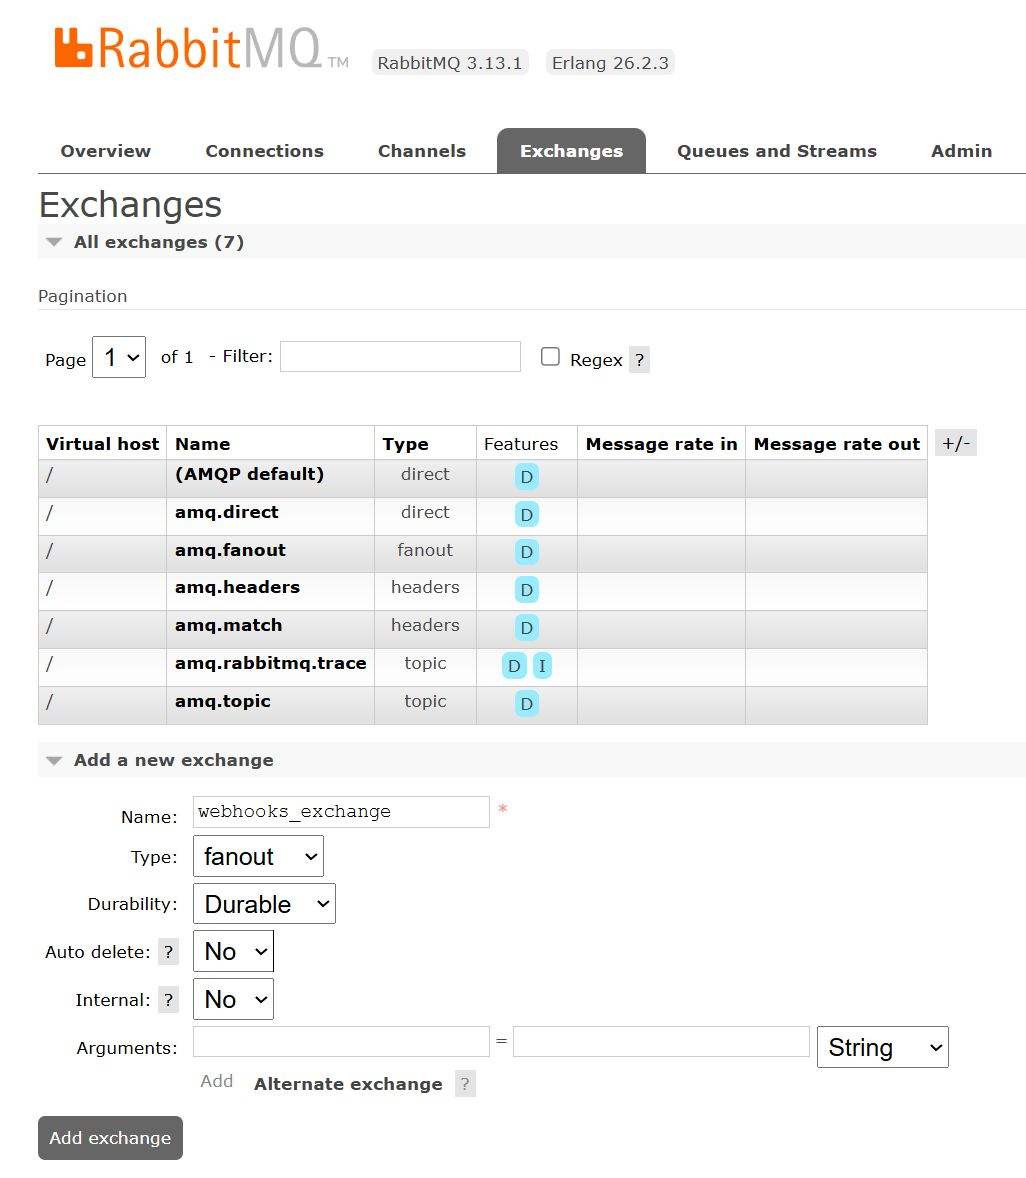
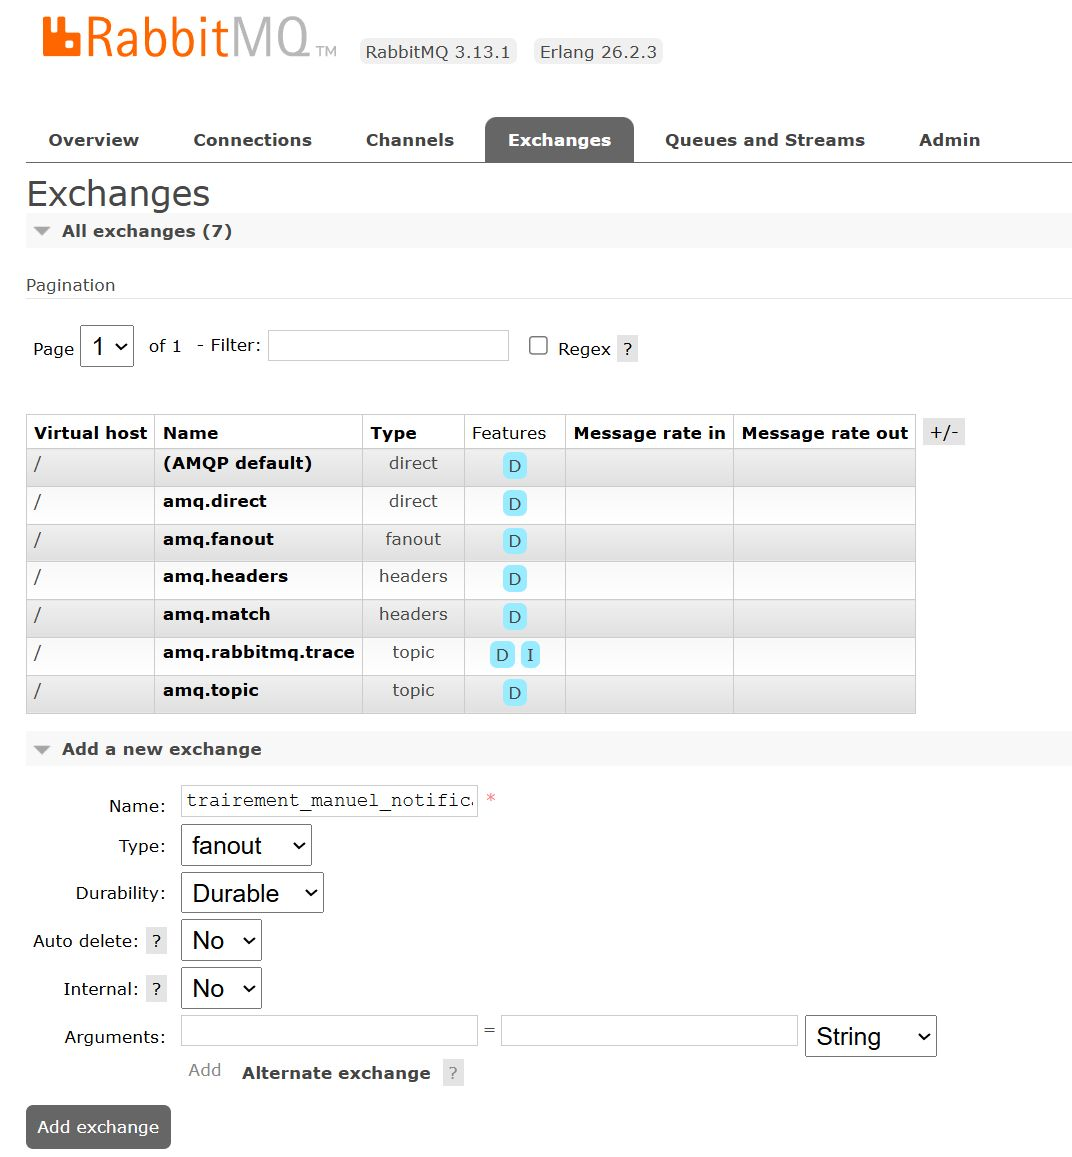
Doc: Mise à jour de la partie notification

diff --git a/mkDocs/docs/ma-moulinette/developpement/rabbitMQ.md b/mkDocs/docs/ma-moulinette/developpement/rabbitMQ.md
@@ -186,7 +186,8 @@ Trois files d'attente sont utilisées.
 
 - [x] **traitement_manuel_queue** est une file d'attente créée automatiquement ;
 - [x] **traitement_automatique_queue** est une file d'attente créée automatiquement ;
-- [ ] **webhooks_queue** est une file d'attente à créer manuellement depuis l'interface graphique ;
+- [x] **traitement_manuel_notifications_queue** est la file de notification ;
+- [ ] **traitement_manuel_notification_queue** est la file de notification ;
 
 ![rabbitMQ](/assets/images/rabbitmq/rabitMQ-002.jpg)
 
@@ -231,27 +232,46 @@ Les droits possibles sont :
 
 `rabbitmqctl.bat clear_permissions -p <vhost> <utilisateur>`
 
-> Ajouter la file d'attente webhooks de type fanout
+> Ajouter les files d'attente pour les notifications
+
+Deux files d'attente doivent être ajoutées :
+- [x] traitement_manuel_notifications_queue ;
+- [x] traitement_automatique_notifications_queue 
 
 ```bash
-rabbitmqadmin declare queue name=webhooks durable=true auto_delete=false arguments='{"x-dead-letter-exchange":"","x-dead-letter-routing-key":"","x-message-ttl":0,"x-expires":0,"x-max-length":0,"x-max-length-bytes":0,"x-overflow":"reject-publish"}' --vhost=/
+rabbitmqadmin declare queue name=traitement_manuel_notifications_queue durable=true auto_delete=false arguments='{"x-dead-letter-exchange":"","x-dead-letter-routing-key":"","x-message-ttl":0,"x-expires":0,"x-max-length":0,"x-max-length-bytes":0,"x-overflow":"reject-publish"}' --vhost=/
 ```
 
-Cette commande utilise l'outil **rabbitmqadmin** pour déclarer une file d'attente nommée "webhooks" avec les options suivantes :
+```bash
+rabbitmqadmin declare queue name=traitement_automatique_notifications_queue durable=true auto_delete=false arguments='{"x-dead-letter-exchange":"","x-dead-letter-routing-key":"","x-message-ttl":0,"x-expires":0,"x-max-length":0,"x-max-length-bytes":0,"x-overflow":"reject-publish"}' --vhost=/
+```
 
-- durable=true : la file d'attente est persistante et survit à un redémarrage du serveur RabbitMQ.
-- auto_delete=false : la file d'attente n'est pas supprimée automatiquement lorsque tous les consommateurs se déconnectent.
-- arguments : cette option permet de définir des arguments supplémentaires pour la file d'attente.
-- --vhost=/ : cette option permet de spécifier le vhost sur lequel la file d'attente doit être créée. Dans cet exemple, la file d'attente est créée sur le vhost par défaut de RabbitMQ (/).
+Cette commande utilise l'outil **rabbitmqadmin** pour déclarer une file d'attente nommée "traitement_manuel_notifications_queue" avec les options suivantes :
+
+- **durable**=true : la file d'attente est persistante et survit à un redémarrage du serveur RabbitMQ.
+- **auto_delete**=false : la file d'attente n'est pas supprimée automatiquement lorsque tous les consommateurs se déconnectent.
+- **arguments** : cette option permet de définir des arguments supplémentaires pour la file d'attente.
+- **--vhost**=/ : cette option permet de spécifier le vhost sur lequel la file d'attente doit être créée. Dans cet exemple, la file d'attente est créée sur le vhost par défaut de RabbitMQ (/).
 
 Une fois la file d'attente créée, vous pouvez la lier à un échange de type "fanout" pour recevoir tous les messages envoyés par les webhooks. Pour cela, vous pouvez utiliser la commande suivante :
 
 ```bash
-rabbitmqadmin declare exchange name=webhooks type=fanout --vhost=/
-rabbitmqadmin declare binding source=webhooks destination_type=queue destination=webhooks routing_key= --vhost=/
+rabbitmqadmin declare exchange name=traitement_manuel_notifications_exchange type=fanout --vhost=/
+rabbitmqadmin declare binding source=traitement_manuel_notifications_exchange destination_type=queue destination=traitement_manuel_notifications_queue routing_key= --vhost=/
+```
+
+```bash
+rabbitmqadmin declare exchange name=traitement_automatique_notifications_exchange type=fanout --vhost=/
+rabbitmqadmin declare binding source=traitement_automatique_notifications_exchange destination_type=queue destination=traitement_manuel_notifications_queue routing_key= --vhost=/
 ```
 
 Si vous utilisez RabbitMQ sur Windows et que vous n'avez pas la commande **rabbitmqadmin**, vous pouvez utiliser l'interface de gestion web de RabbitMQ pour créer une file d'attente et la lier à un échange.
+
+Créez un webhook pour votre file d'attente "traitement_manuel_queue" :
+
+```bash
+rabbitmqadmin declare web_hook name=traitement_manuel_webhook queue=traitement_manuel_queue exchange=traitement_manuel_notifications url=<VOTRE_URL_WEBHOOK> method=POST
+```
 
 Pour accéder à l'interface de gestion web de RabbitMQ, ouvrez un navigateur web et accédez à l'URL suivante :
 
